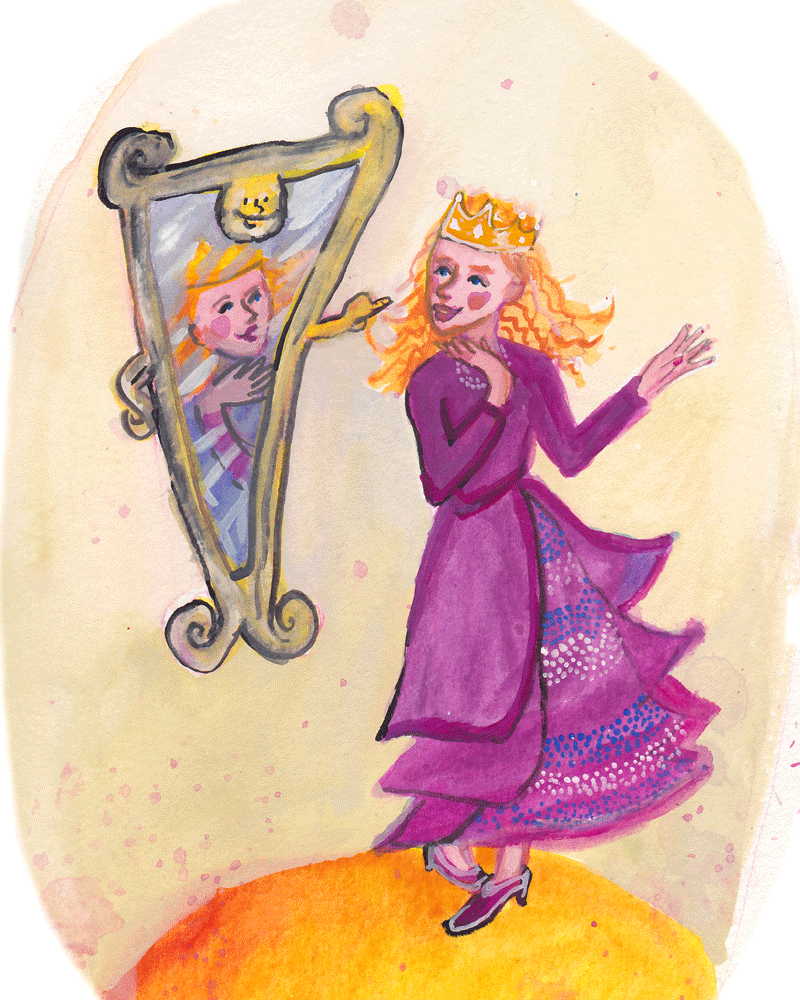
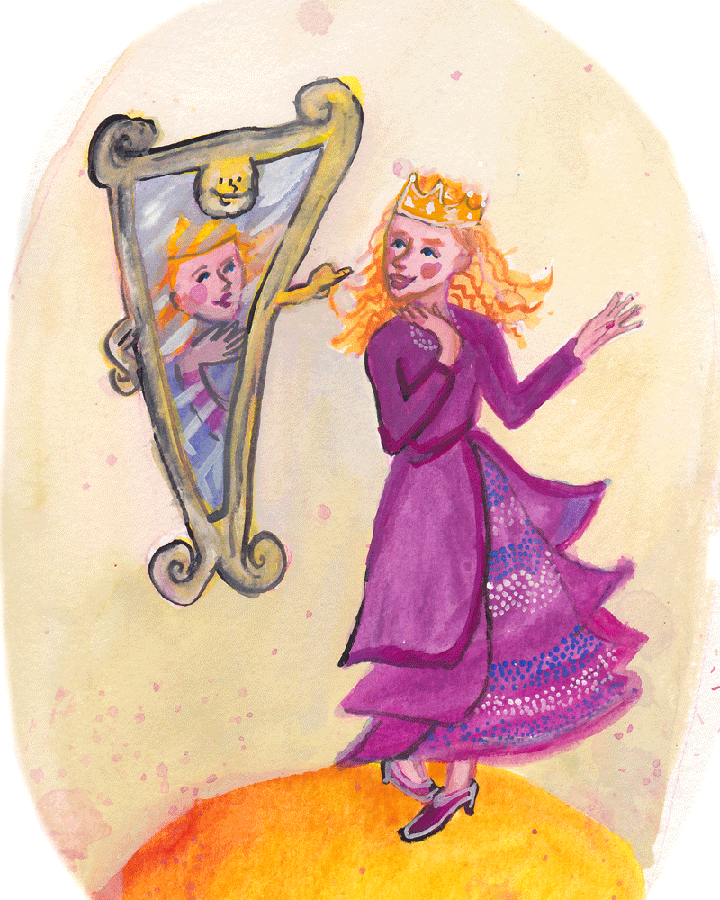
Reduced image size slightly. Added page 9.

diff --git a/index.html b/index.html
@@ -6,7 +6,7 @@
         <meta http-equiv="x-ua-compatible" content="ie=edge">
         <title></title>
         <meta name="description" content="The classic fairy tale Snow White illustrated by Lucy Gow">
-        <!--<meta name="viewport" content="width=device-width, initial-scale=1">-->
+        <meta name="viewport" content="width=device-width, initial-scale=1">
 
         <link rel="manifest" href="site.webmanifest">
         <link rel="apple-touch-icon" href="icon.png">
@@ -20,12 +20,11 @@
     <body>
       <div id="wrapper" class="outer-container">
          <div class="container">
-            <section id="title"> 
+            <header> 
               <h1>Snow<br>White</h1>
               <p>Illustrated by <a href="http://www.lucygow.com">Lucy Gow</a></p>
               <p>Scroll to see</p>
-            </section>
-
+            </header>
             
             <figure id="page1">
               <div class="pin-me">
@@ -33,8 +32,8 @@
               </div>
               <figcaption>
                 <p>Once upon a time a queen sat sewing by a window made of ebony wood.</p>
-                <p>She pricked her finger and some blood fell on the snow.</p>
-                <p>She wished she had a baby with hair as black as ebony, lips as red as blood, and skin as white as snow.</p>
+                <p>She pricked her finger and blood fell on the snow.
+                She wished she had a baby with hair as black as ebony, lips as red as blood, and skin as white as snow.</p>
               </figcaption>
             </figure>
            
@@ -84,16 +83,23 @@
 
             <figure id="page7">
               <div class="pin-me">
-                <img class="lazy" src="img/page1.png" data-original="img/page7.png" alt="The queen giving the huntsman a box."/>
+                <img class="lazy" src="img/page1.png" data-original="img/page7.png" alt="The huntsman kneels in foreground as Snow White runs away in the distance in a forest."/>
               </div>
               <figcaption><p>The huntsman took Snow White into the forest and told her to run away.</p></figcaption>
             </figure>
 
             <figure id="page8">
               <div class="pin-me">
-                <img class="lazy" src="img/page1.png" data-original="img/page8.png" alt="The queen giving the huntsman a box."/>
+                <img class="lazy" src="img/page1.png" data-original="img/page8.png" alt="Snow White screaming in the forest as trees look like monsters."/>
               </div>
               <figcaption><p>When night fell, the forest was a scary place to be all alone.</p></figcaption>
+            </figure>
+
+            <figure id="page9">
+              <div class="pin-me">
+                <img class="lazy" src="img/page1.png" data-original="img/page9.png" alt="Snow White looking at a cottage with some rabbits, a squirrel, and a bird."/>
+              </div>
+              <figcaption><p>But things seemed better in the morning.</p></figcaption>
             </figure>
 
         </div>

diff --git a/css/main.css b/css/main.css
@@ -130,9 +130,9 @@ body {
   }
 }
 
-#title {
+header {
   height:100vh;
-  max-height: 1000px;
+  max-height: 800px;
   text-align:center;
 }  
 
@@ -140,6 +140,7 @@ h1 {
   color:rgb(180,20,20);
   font-family: santeliaroughline, cursive;
   font-size: 100px;
+  line-height: 1.2;
 }
 
 figure {
@@ -179,7 +180,7 @@ figcaption {
   padding: 5px;
   border-radius:25px;
   font-size:x-large;
-  width: 90%; /* need to overwrite for landscape mode!*/ 
+  max-width: 90%; /* need to overwrite for landscape mode!*/ 
 
   color:rgba(255,255,255,0); 
   background: rgba(0,0,0,0);
@@ -202,11 +203,13 @@ figcaption>p {
 
 /**************************************************************
 
-   small height
+   small width
 
 ***************************************************************/
 
-@media (min-height: 35em) {
+@media screen and (max-width: 500px) {
+
+
   figcaption {
     font-size: x-large;  
   }
@@ -217,6 +220,7 @@ figcaption>p {
   }
 
   figure img {
+    border-top: 20vh solid rgba(255,255,255,0.1);
     margin-top:10%;
     opacity:0;
     transition: all 1s ease-out;
@@ -273,7 +277,7 @@ figcaption>p {
     max-height: 100vh;
   }
   figcaption {
-    max-width:48.7%;
+    width:48%;
     left:75%;
     top:50%;
     transform: translate(-50%,-50%);

diff --git a/js/main.js b/js/main.js
@@ -10,7 +10,7 @@ $(document).ready(function(){
 
       var img_scene = new ScrollMagic.Scene({
         triggerElement: this,
-        duration:"105%",
+        duration:"120%",
         triggerHook:0.3,
     })
       .setClassToggle($(this).find('img')[0], 'fade-in')
@@ -18,7 +18,7 @@ $(document).ready(function(){
 
       var caption_scene = new ScrollMagic.Scene({
         triggerElement: this,
-        duration:"110%",
+        duration:"120%",
         triggerHook:0.3,
 
     })
